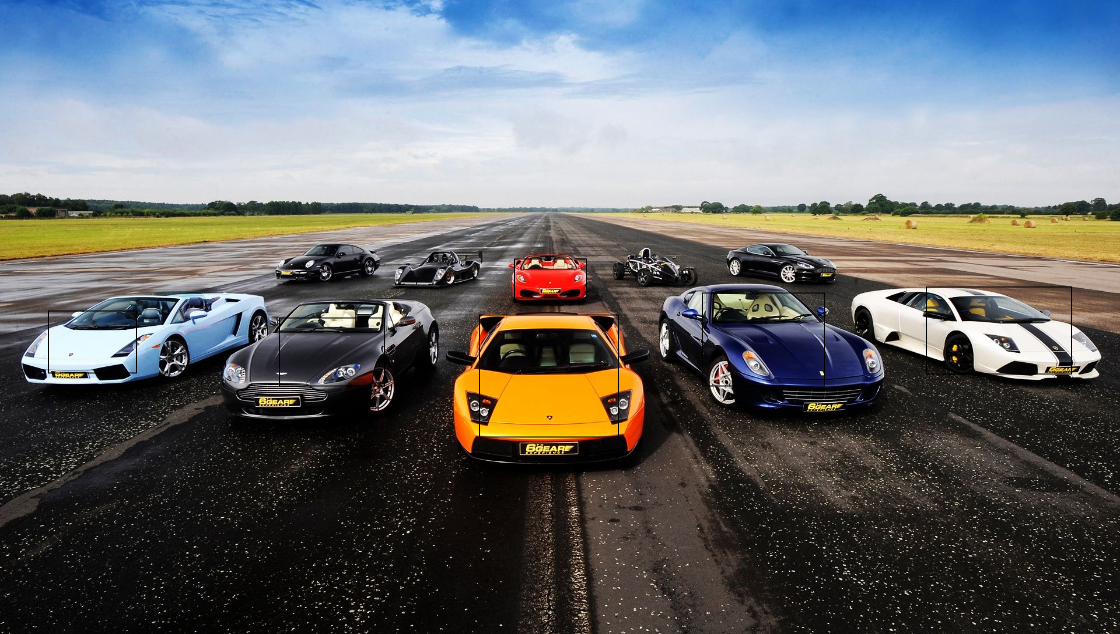
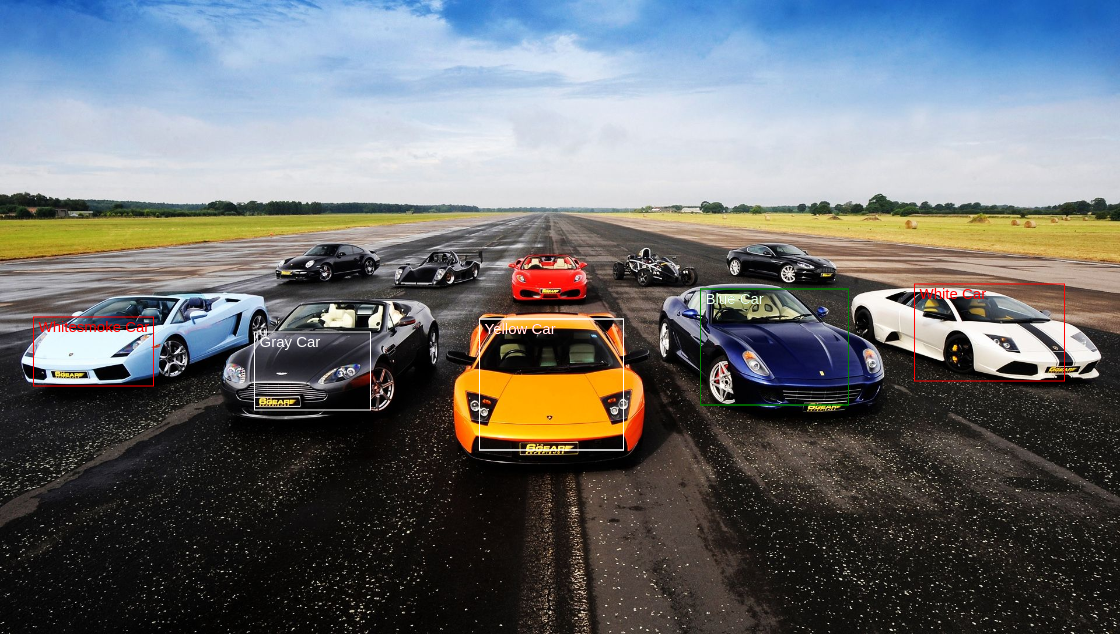
add bounding & text color

diff --git a/frontend/src/components/AddItem.tsx b/frontend/src/components/AddItem.tsx
@@ -32,22 +32,22 @@ interface PropsTypes {
     createItem:(data: any) => void,
 }
 
-
 const AddItem = (props:PropsTypes) => {
     let history = useHistory();
     const [state, setState] = useState<InterState>({
+        lineWidth:0,
+        strokeStyle:"",
         fillText:"",
+        fillStyle:"",
+        font:"15px Arial",
         last_mousex:0,
         last_mousey:0,
         isDrawWarining:false,
     });
-
     const canvasRefs = useRef<HTMLCanvasElement>(null);
     const imageRefs = useRef<HTMLImageElement>(null);
     const [context, setContext] = useState<any>(null);
-    const [strokeRect, setStrokeRect] = useState<InterStrokeRect[]>([
-        {last_mousex:0, last_mousey:0, width:0, height:0,fillText:'' }
-    ]);
+    const [strokeRect, setStrokeRect] = useState<InterStrokeRect[]>([]);
     const [photo, setPhoto] = useState<string>('');
     const [selectedFile, setSelectedFile] = useState<boolean>();
     const [canWidthHeight, setCanWidthHeight] = useState<InterCanWidthHeight>({
@@ -83,6 +83,10 @@ const AddItem = (props:PropsTypes) => {
             if (context && strokeRect && strokeRect.length) {
                 context.beginPath();
                 strokeRect.forEach((item:InterStrokeRect)=>{
+                    context.lineWidth = item.lineWidth;
+                    context.strokeStyle = item.strokeStyle;
+                    context.fillStyle = item.fillStyle;
+                    context.font = item.font;
                     context.fillText(item.fillText,  item.last_mousex+fillTextX, item.last_mousey+fillTextY);
                     context.strokeRect(item.last_mousex, item.last_mousey, item.width, item.height);
                 })
@@ -141,11 +145,16 @@ const AddItem = (props:PropsTypes) => {
         img.src=photo!;
         //
         if(mousedown) {
+            const {strokeStyle,fillStyle,font}=state;
             ctx.clearRect(0, 0, canvas.width, canvas.height);
             ctx.drawImage(img, 0, 0, canvas.width, canvas.height);
             ctx.beginPath();
             width = mousex - last_mousex;
             height = mousey - last_mousey;
+            ctx.lineWidth = 2;
+            ctx.strokeStyle = strokeStyle? strokeStyle:'';
+            ctx.fillStyle = fillStyle? fillStyle:'';
+            ctx.font=font;
             ctx.strokeRect(last_mousex, last_mousey, width, height);
             state.last_mousex=last_mousex;
             state.last_mousey=last_mousey;
@@ -154,6 +163,9 @@ const AddItem = (props:PropsTypes) => {
             //Paint Rectangular With Text
             if(strokeRect && strokeRect.length){
                 strokeRect.forEach((item:InterStrokeRect)=>{
+                    ctx.lineWidth = item.lineWidth;
+                    ctx.strokeStyle = item.strokeStyle;
+                    ctx.fillStyle = item.fillStyle;
                     ctx.fillText(item.fillText,  item.last_mousex+fillTextX, item.last_mousey+fillTextY);
                     ctx.strokeRect(item.last_mousex, item.last_mousey, item.width, item.height);
                 })
@@ -163,8 +175,8 @@ const AddItem = (props:PropsTypes) => {
     //
     const addHandler = () => {
         if(width && height){
-            const {last_mousex,last_mousey}=state;
-            setStrokeRect([...strokeRect, {last_mousex, last_mousey, width, height,fillText:state.fillText }]);
+            const {lineWidth,strokeStyle,last_mousex,last_mousey,fillText,fillStyle,font}=state;
+            setStrokeRect([...strokeRect, {lineWidth,strokeStyle,last_mousex, last_mousey, width, height,fillText,fillStyle,font}]);
             toast.success('Success! Rectangular boxes added.', {
                 position: "bottom-right",
                 autoClose: 3000,
@@ -178,6 +190,10 @@ const AddItem = (props:PropsTypes) => {
         else {
             setState({...state,isDrawWarining:true});
         }
+        setTimeout(()=>{
+            console.log(strokeRect)
+        },100)
+
     };
     //
     const submitHandler = async () => {
@@ -222,21 +238,44 @@ const AddItem = (props:PropsTypes) => {
                                 <input id="file" type='file' className="inputfile" onChange={onSelectFile} />
                             </label>
                             <button className="btn btn-warning" style={{width: '100%'}} onClick={addHandler}>
-                                Add
+                                Add Bounding Box
                             </button>
                         </div>
-                        <div className="col-sm-3"> </div>
-                        <div className="col-sm-6">
-                            <div>
-                                <InputForm
-                                    label="Text"
-                                    name="fillText"
-                                    type="text"
-                                    placeholder="Enter"
-                                    onChange={onChangeHandle}
-                                    className="form-control"
-                                    value={state.fillText}
-                                />
+                        <div className="col-sm-9">
+                            <div className="row">
+                                <div className="col-4">
+                                    <InputForm
+                                        label="Bounding Color"
+                                        name="strokeStyle"
+                                        type="text"
+                                        placeholder="Enter Color Code"
+                                        onChange={onChangeHandle}
+                                        className="form-control"
+                                        value={state.strokeStyle}
+                                    />
+                                </div>
+                                <div className="col-4">
+                                    <InputForm
+                                        label="Text"
+                                        name="fillText"
+                                        type="text"
+                                        placeholder="Enter Text"
+                                        onChange={onChangeHandle}
+                                        className="form-control"
+                                        value={state.fillText}
+                                    />
+                                </div>
+                                <div className="col-4">
+                                    <InputForm
+                                        label="Text Color"
+                                        name="fillStyle"
+                                        type="text"
+                                        placeholder="Enter Color Code"
+                                        onChange={onChangeHandle}
+                                        className="form-control"
+                                        value={state.fillStyle}
+                                    />
+                                </div>
                             </div>
                         </div>
                     </div>

diff --git a/frontend/src/components/common/Canvas.tsx b/frontend/src/components/common/Canvas.tsx
@@ -17,6 +17,10 @@ const Canvas = (props:InterCanvasProps) => {
                     ctx.beginPath();
                     if (props.strokeRect && props.strokeRect.length) {
                         props.strokeRect.forEach((item2:any) => {
+                            ctx.lineWidth = item2.lineWidth;
+                            ctx.strokeStyle = item2.strokeStyle;
+                            ctx.fillStyle = item2.fillStyle;
+                            ctx.font = item2.font;
                             ctx.fillText(item2.fillText,  item2.last_mousex+fillTextX, item2.last_mousey+fillTextY);
                             ctx.strokeRect(item2.last_mousex, item2.last_mousey, item2.width, item2.height);
                         })

diff --git a/frontend/src/components/common/InterfaceTypes.ts b/frontend/src/components/common/InterfaceTypes.ts
@@ -1,17 +1,25 @@
 import React from "react";
 
 export interface InterState {
+    lineWidth:number,
+    strokeStyle:string,
     fillText:string,
+    fillStyle:string,
+    font:string,
     last_mousex:number,
     last_mousey:number,
     isDrawWarining:boolean,
 }
 export interface InterStrokeRect {
+    lineWidth:number,
+    strokeStyle:string,
     last_mousex:number,
     last_mousey:number,
     width:number,
     height:number,
-    fillText:string
+    fillText:string,
+    fillStyle:string,
+    font:string,
 }
 export interface InterCanWidthHeight{
     width:number,

diff --git a/backend/models/Boundingbox.js b/backend/models/Boundingbox.js
@@ -20,6 +20,22 @@ var Boundingbox = new Schema({
             type: String,
             trim: true
         },
+        fillStyle : {
+            type: String,
+            trim: true
+        },
+        font : {
+            type: String,
+            trim: true
+        },
+        lineWidth : {
+            type: Number,
+            trim: true
+        },
+        strokeStyle : {
+            type: String,
+            trim: true
+        },
         height : {
             type: Number,
             trim: true

diff --git a/backend/index.js b/backend/index.js
@@ -8,7 +8,7 @@ const boundingbox  = require( './routes/Boundingbox');
 const app = express();
 // db
 mongoose
-    .connect("mongodb://localhost:27017/box", {
+    .connect("mongodb://localhost:27017/twodboundingbox", {
         useNewUrlParser: true, useCreateIndex: true, useFindAndModify: false, useUnifiedTopology: true  })
     .then(() => console.log('DB connected'))
     .catch(err => {
